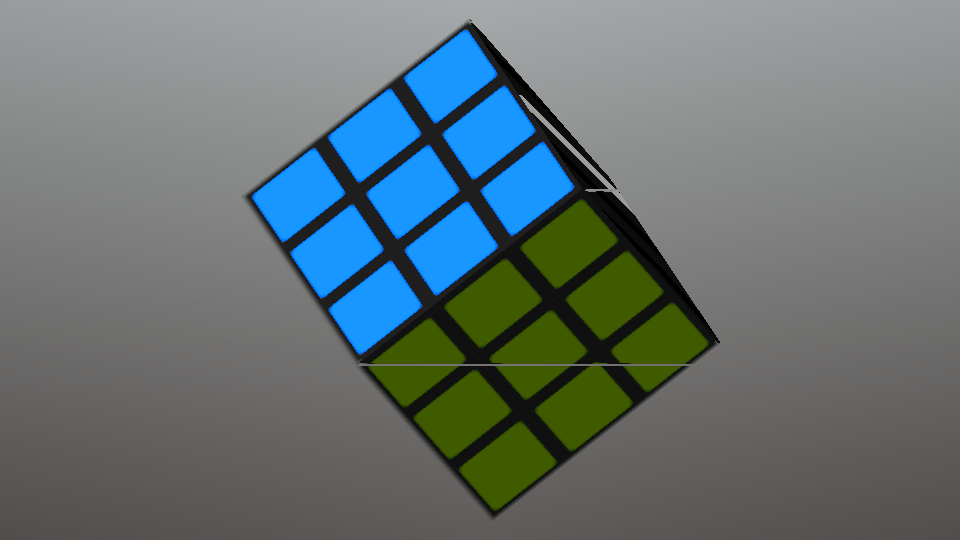
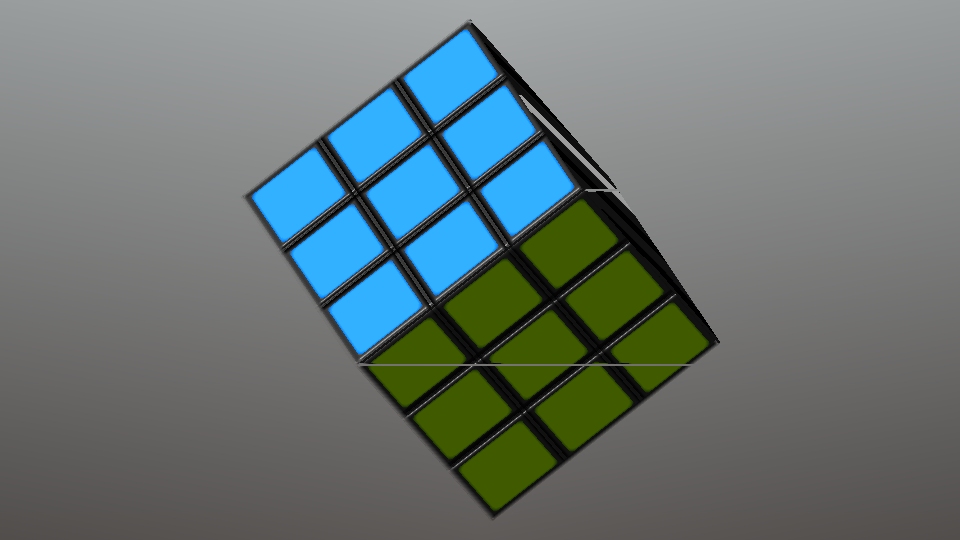
Cubist: engine matches the reference FSM exactly on every slot descriptor
Two reset bugs, both one-shot s_zfirst hazards the old FSM encoded in its
state numbering and the processor did not:

  - u_done initialised to '0', so the engine ran the ENTIRE program at
    power-up against default registers, before any s_fstart.  That phantom
    frame consumed the first-frame snap on knobs of 512, and the real frame
    had nothing left to snap with.  The old FSM idled at state 0.
  - initialising u_done to '1' then cleared s_zfirst on the first clock,
    before a frame had ever started.  Gated on s_frans now.

Every symptom traced back to these: wrong pose, wrong visible faces, and
'wrong' colours that were really the correct colours of the wrong faces.

Verified against the pre-engine RTL (programs/ron/cubist_ref) at identical
settings.  ang=3520,272,0 and all three slots agree exactly:
  slot0 face=0 ly=995 cu=512 cv=512 lf=227 px0=55 py0=5
  slot1 face=2 ly=332 cu=468 cv=760 lf=171 px0=95 py0=43
  slot2 face=4 ly=416 cu=499 cv=289 lf=163 px0=38 py0=61

Also adds the missing phase 8b: the half-vector projections H.axis were
never written, so sl_hn/hu/hv were zero and the whole specular and bevel-tilt
rig was silently disabled.  838 instructions, still bit-exact in uemu.

diff --git a/programs/ron/cubist/frame_ucode.py b/programs/ron/cubist/frame_ucode.py
@@ -256,6 +256,22 @@ for f in range(6):
     a.emit('LDI', dst=R_TBL + 12 + f, imm=C_FN[f] | (C_FU[f] << 3) | (C_FV[f] << 6))
 
 
+# ------------- phase 8b: the half-vector projected on the three cube axes
+# Orthographic camera, so the view dir is the world +z constant and
+# H = normalize(Lkey + V) is constant too.  Every face's H.n, H.U and H.V is
+# then +/- one of these three numbers, by orthonormality -- three dot products
+# a frame instead of three per face.
+C_HX, C_HY, C_HZ = -57, 81, 236
+for ax in range(3):
+    a.emit('LDI', dst=T2, imm=0)
+    for c, hc in enumerate((C_HX, C_HY, C_HZ)):
+        a.emit('LDI', dst=T1, imm=hc)
+        a.emit('MUL', a=R_BAS + ax * 3 + c, b=T1)
+        a.emit('MRD', dst=T0, imm=12)
+        a.emit('ADD', dst=T2, a=T2, b=T0)
+    a.emit('MOV', dst=R_H + ax, a=T2)
+
+
 # ============================ phase 9: the per-visible-face loop ===========
 # States 58-97 of the old FSM.  The face index is a runtime value, so every
 # per-face constant comes out of the register file by LDX; the four-corner

diff --git a/programs/ron/cubist/regen_ucode.py b/programs/ron/cubist/regen_ucode.py
@@ -1,0 +1,14 @@
+#!/usr/bin/env python3
+"""Regenerate the C_UCODE constant inside cubist.vhd from frame_ucode.py."""
+import subprocess, sys
+
+rom = subprocess.run([sys.executable, 'frame_ucode.py'], capture_output=True,
+                     text=True, check=True)
+new = rom.stdout.rstrip('\n')
+src = open('cubist.vhd').read().split('\n')
+a = next(i for i, l in enumerate(src) if 'type t_ucode is array' in l)
+b = next(i for i in range(a, len(src))
+         if src[i].rstrip().endswith(');') and 'x"' in src[i])
+src[a:b + 1] = new.split('\n')
+open('cubist.vhd', 'w').write('\n'.join(src))
+print(rom.stderr.strip())
